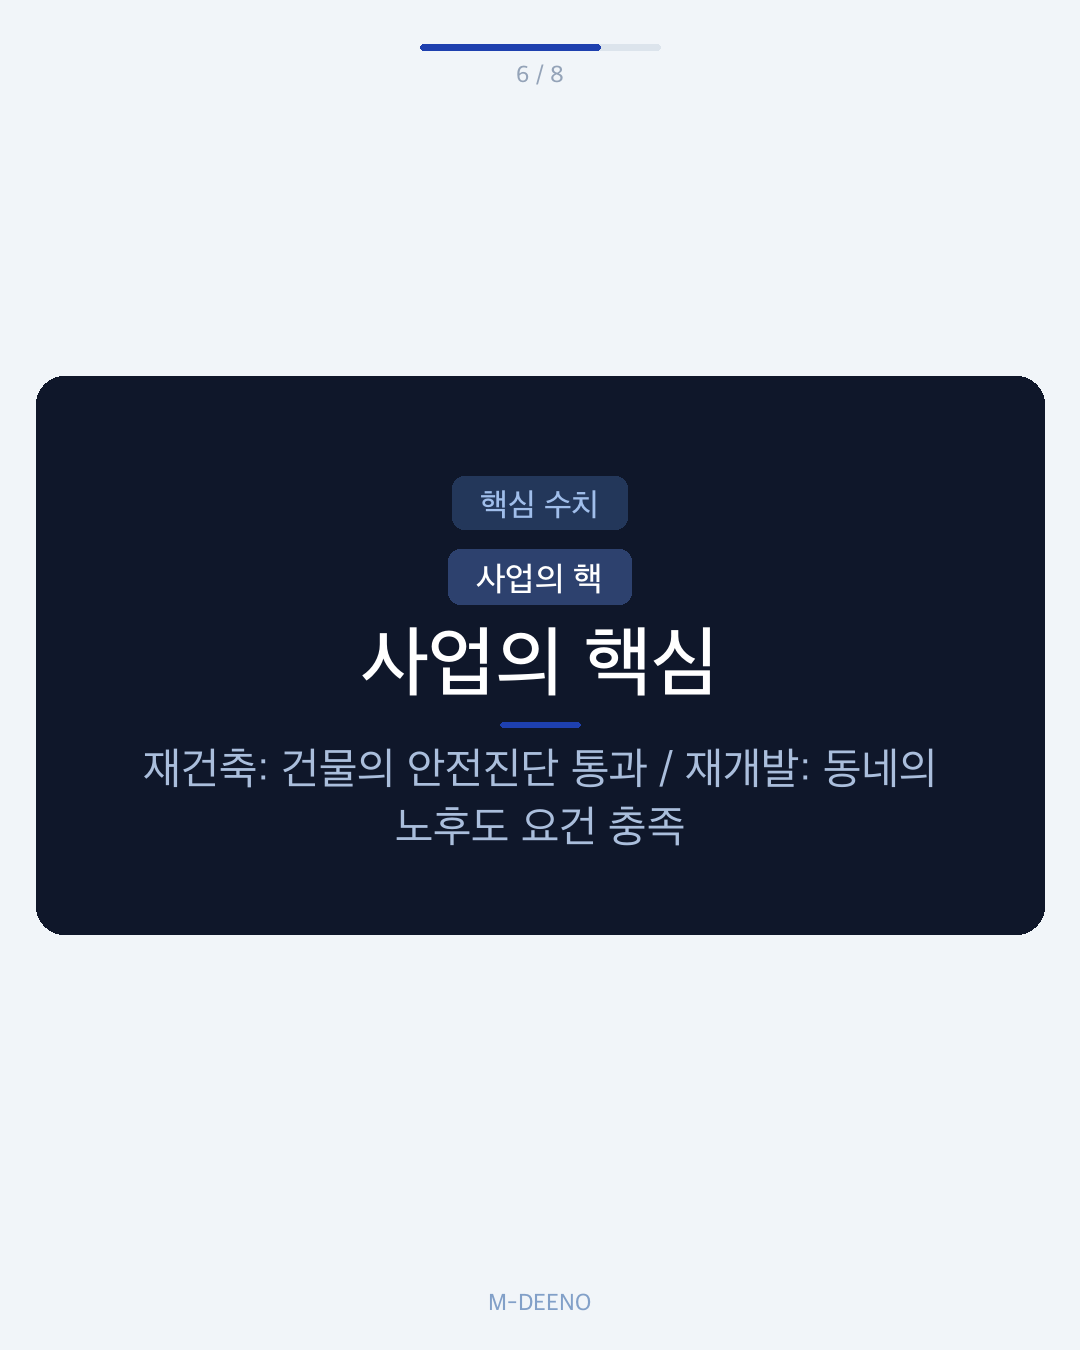
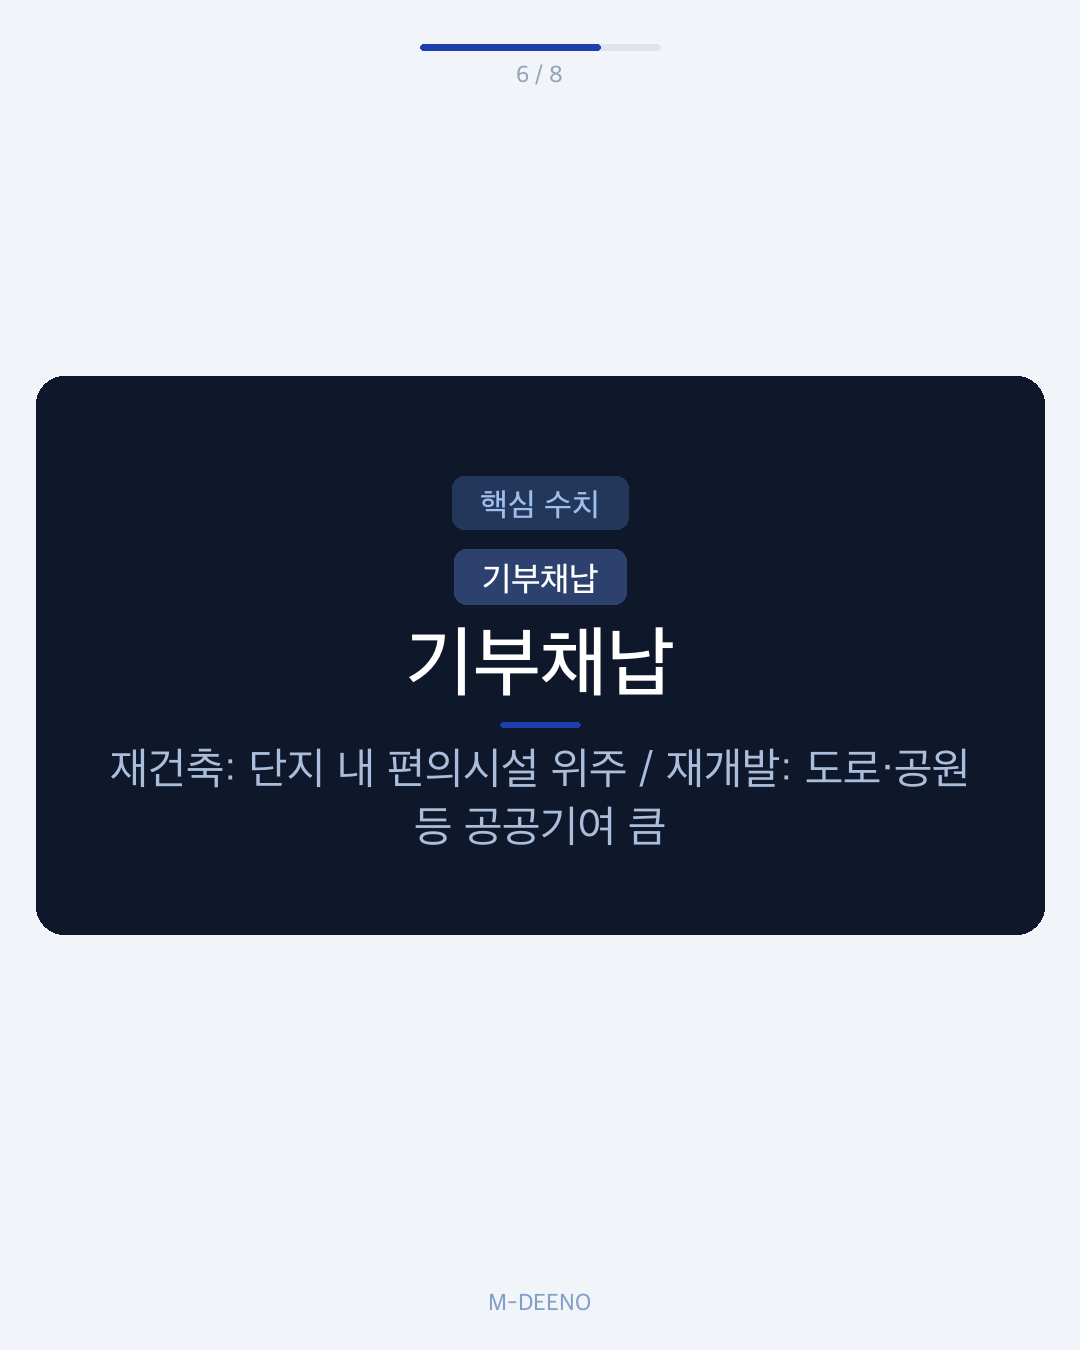
Auto Post: 2026-04-11-압구정-현대-5억-추가-분담금-2026년-기부채납이-결정할-내-집의-운명.md

Changed region(s): [[0.0917, 0.5289, 0.9167, 0.6222], [0.3361, 0.4667, 0.6722, 0.5289], [0.3972, 0.4044, 0.6111, 0.4356]]

diff --git a/content/posts/reconstruction/2026-04-11-압구정-현대-5억-추가-분담금-2026년-기부채납이-결정할-내-집의-운명.md b/content/posts/reconstruction/2026-04-11-압구정-현대-5억-추가-분담금-2026년-기부채납이-결정할-내-집의-운명.md
@@ -1,0 +1,167 @@
+---
+title: "압구정 현대 5억 추가 분담금? 2026년 기부채납이 결정할 내 집의 운명"
+date: 2026-04-11T23:31:37+09:00
+draft: false
+categories: ["재건축/재개발"]
+tags: ["2026년 압구정 재건축 기부채납과 분담금 변화", "부동산투자", "분담금예측", "프롭테크", "재테크"]
+description: "2026년 압구정 재건축 기부채납과 분담금 변화를 정밀 분석했습니다. 현대 1~7차부터 한양까지 구역별 공공기여 시설이 내 자산 가치에 미치는 영향을 M-DEENO 데이터로 확인하고 분담금 폭탄을 피하는 전략을 지금 무료로 분석해 보세요."
+image: "/images/chart-1775917943.png"
+---<!-- inline-links-inserted -->
+
+
+
+
+
+![2026년 압구정 재건축 기부채납과 분담금 변화 분석 차트 — M-DEENO 데이터 시뮬레이션](/images/chart-1775917943.png)
+*▲ 2026년 압구정 재건축 [기부채납](/posts/reconstruction/2026-04-05-여의도-시범-기부채납-조합원-분담금-2억-더-늘리는-구조/)과 분담금 변화 M-DEENO AI 분석 시뮬레이션 (2026-04-11 기준)*
+
+---
+
+<div class="lab-card">
+2026년 압구정 재건축 기부채납과 분담금 변화의 핵심은 공공기여 비율과 공사비 상승의 결합입니다. 기부채납 비율 1% 차이가 가구당 수억 원의 분담금 격차를 만들며, 특히 3구역의 덮개공원과 공공보행통로 등 대규모 기반시설 기여가 수익성의 최대 변수로 떠오르고 있습니다. M-DEENO 데이터 랩의 분석을 통해 구역별 예상 분담금 시나리오와 자산 가치 방어 전략을 제시합니다.
+</div>
+
+공사비가 평당 1,000만 원 시대를 열면서 압구정 재건축 단지에서도 가구당 분담금이 5억 원을 상회할 것이라는 관측이 현실화되고 있습니다. 평생 일궈온 내 집이 재건축 후에 오히려 감당하기 어려운 빚더미가 될 수 있다는 불안감은 압구정 주민들에게도 더 이상 남의 일이 아닙니다. 2026년 압구정 재건축 기부채납과 분담금 변화의 실체를 데이터로 분석하여 내 자산을 지킬 수 있는 명확한 판단 기준을 제시합니다.
+
+## 2026년 압구정, '기부채납'의 덫... 자칫하면 내 집 한 채 값 날아갑니다
+
+2026년 확정될 정비계획안의 핵심은 기부채납(공공 기여를 조건으로 용적률 등의 혜택을 받는 제도)의 규모와 종류입니다. 서울시 신속통합기획 가이드라인에 따르면 압구정 지구는 한강 변 공공성 확보를 위해 과거보다 높은 수준의 기부채납을 요구받고 있습니다. 기부채납 비율이 상승하면 조합원이 일반 분양으로 수익을 낼 수 있는 대지 면적이 줄어들어 결국 분담금 상승으로 직결됩니다.
+
+기부채납 비율 1%의 차이는 압구정 같은 고가 단지에서 가구당 수천만 원에서 억 단위의 자산 가치 변화를 야기합니다. 단순히 땅을 내놓는 것을 넘어 덮개공원이나 보행교 같은 고가의 시설물을 지어서 기부하는 '시설 기부채납'은 공사비 부담을 조합원에게 전가하는 구조입니다. 2026년 공사비 지수가 현재보다 10~15% 추가 상승할 경우, 시설 기부채납 비중이 높은 단지는 감당하기 어려운 수준의 분담금 폭탄을 맞을 수 있습니다.
+
+조합원들이 간과하는 또 다른 위험 요소는 입주 후 공공기여 시설의 유지보수 비용입니다. 공공보행통로나 대규모 공원이 단지 내에 조성될 경우, 이에 대한 관리 책임과 비용이 조합 측에 과도하게 설정될 가능성이 큽니다. 이는 장기적으로 단지의 관리비 상승과 커뮤니티 폐쇄성 저하로 이어져 매매 가격에 부정적인 영향을 줄 수 있습니다.
+
+| 구분 | 기부채납 유형 | 자산 가치 영향도 | 분담금 변동성 |
+| :--- | :--- | :--- | :--- |
+| 토지 기부 | 도로, 공원 부지 제공 | 중간 | 낮음 |
+| 시설 기부 | 보행교, 덮개공원, 문화시설 | 높음 | 매우 높음 |
+| 현금 기부 | 공공기여금 납부 | 낮음 | 중간 |
+
+위 표에서 보듯 시설 기부채납은 공사비 변동에 직접 노출되어 2026년 시점의 사업성을 극도로 불안정하게 만드는 요소입니다.
+[국토교통부 실거래가 공개시스템](https://rt.molit.go.kr/) 확인 권장
+
+
+<div class="blog-cta-box blog-cta-box--primary">
+  <p class="blog-cta-box__hook">⚠ 공사비 10% 오르면, 내 분담금은 최대 7배 뜁니다</p>
+  <p class="blog-cta-box__desc">
+    내 단지는 얼마나 위험한지, 30초면 무료로 확인할 수 있습니다.<br>회원가입도 필요 없습니다.
+  </p>
+  <a href="https://mdeeno.com/member?utm_source=blog&utm_medium=post_cta&utm_campaign=auto_post" target="_blank" rel="noopener noreferrer"
+     onclick="typeof gtag !== 'undefined' && gtag('event', 'blog_to_mvp_click', {page: window.location.pathname})"
+     class="blog-cta-box__btn">
+    내 단지 리스크 무료 진단받기 →
+  </a>
+</div>
+
+
+
+## 압구정 2·3·4구역 실전 비교: 공공기여 비중에 따른 분담금 격차 분석
+
+압구정 3구역(현대 1~7차, 10, 13, 14차)은 압구정 재건축의 상징이지만, 가장 복잡한 기부채납 과제를 안고 있습니다. 한강과 단지를 잇는 덮개공원과 공공보행통로 조성 비용은 고스란히 조합원의 분담금으로 산입됩니다. M-DEENO 분석 엔진에 따르면 3구역의 경우 공공기여 시설 조성비로 인해 타 구역 대비 가구당 약 1.2억~1.8억 원의 추가 비용 발생 가능성이 감지되었습니다.
+
+반면 2구역(현대 9, 11, 12차)과 4구역(현대 8차, 한양 3, 4, 6차)은 상대적으로 시설 기부채납의 규모가 3구역보다 작아 사업성 측면에서 유리한 고지를 점할 수 있습니다. 2구역은 수변 특화 설계에 집중하고 있으며, 4구역은 공공청사 위주의 기부채납을 논의 중입니다. 이러한 시설 종류의 차이는 관리처분(이주·철거 직전 단계로 분담금 확정 시점) 단계에서 비례율(사업 수익성 지수. 100% 이하면 추가 분담금 발생)의 차이로 나타나게 됩니다.
+
+인근 반포와 잠실의 사례를 보면 기부채납 시설이 과도하게 개방된 단지들은 입주 초기 시세 상승 폭이 제한적인 경향을 보였습니다. 단지 내 사생활 보호가 어려워지고 외부인 유입으로 인한 시설 노후화가 빨라지기 때문입니다. 압구정 역시 2026년 정비계획안 확정 시 공공기여의 '질적 수준'을 어떻게 협상하느냐에 따라 30~40대 투자자들의 선택이 갈릴 것입니다.
+
+| 구역 | 주요 기부채납 계획 | 예상 순부담률 | 추정 분담금(전용 84㎡ 기준) |
+| :--- | :--- | :--- | :--- |
+| 압구정 2구역 | 수변 특화 공간, 문화시설 | 11~13% | 4.5~6억대 |
+| 압구정 3구역 | 한강 덮개공원, 보행교 | 15~18% | 6~8억대 |
+| 압구정 4구역 | 공공청사, 공원 부지 | 10~12% | 3.5~5억대 |
+
+현재 압구정 시세는 구역별로 40~60억대 범위를 형성하고 있으나, 분담금 확정 시점에 따라 권리가액(비례율을 적용한 내 실질 지분 가치)이 출렁일 수 있습니다.
+[국토교통부 실거래가 공개시스템](https://rt.molit.go.kr/) 확인 권장
+
+## 왜 우리 단지만 더 낼까? 기부채납 비율과 용적률의 숨겨진 함수
+
+용적률(대지 면적 대비 건물 총 연면적 비율)을 높여 고층을 짓는 대가는 결코 공짜가 아닙니다. 서울시는 용적률 인센티브를 주는 대신 그만큼의 가치를 공공주택(임대주택)이나 기반시설로 환수합니다. 조합원들이 흔히 하는 실수가 '용적률이 높으니 무조건 이득'이라고 생각하는 것이지만, 실제로는 순부담률(전체 대지 중 기부채납 후 조합원에게 남는 실질 토지 비율)이 낮아지면 사업성은 악화됩니다.
+
+<div class="lab-formula-box">
+실질 사업성 지수 = (일반분양 수입 - 총사업비) / (종전자산 총액 × 기부채납 보정 계수)
+*기부채납 시설의 공사비가 상승할수록 분모의 보정 계수가 낮아져 비례율이 하락함
+</div>
+
+2026년 예상 공사비 상승분은 현재의 예측치를 상회할 가능성이 높습니다. 원자재 가격 상승과 인건비 급등은 기부채납 시설의 건립 비용을 높여 조합원의 추가분담금(조합원 분양가에서 권리가액을 뺀 금액)을 기하급수적으로 늘립니다. 특히 압구정처럼 하이엔드 브랜드를 지향하는 경우 마감재 비용까지 더해져 '기부채납의 저주'가 현실화될 수 있습니다.
+
+서울시 정책 변화에 따른 불확실성도 큰 리스크입니다. 2026년 선거 주기와 맞물려 공공기여 인정 범위나 기부채납 시설의 운영 주체에 대한 기준이 변할 수 있습니다. 지금의 장밋빛 청사진만 믿고 투자를 결정하거나 분담금 계획을 세우는 것은 위험하며, 철저하게 보수적인 시나리오를 바탕으로 자금 계획을 수립해야 합니다.
+
+## M-DEENO가 분석한 2026년 압구정 재건축 시뮬레이션 결과
+
+M-DEENO 분석 엔진에 따르면, 압구정 3구역의 경우 현재의 기부채납 안을 고수할 시 비례율이 85~90% 수준까지 하락할 위험이 있는 것으로 나타났습니다. 이는 종전자산(재건축 전 내 아파트의 감정평가 금액)이 40억인 조합원의 경우, 권리가액이 34~36억으로 평가되어 분담금이 예상보다 4~6억 원 더 늘어날 수 있음을 의미합니다. 데이터 랩은 이러한 리스크를 줄이기 위해 시설 기부채납을 토지 기부채납으로 전환하거나 공공주택 비중을 조정하는 전략적 대안을 제시합니다.
+
+불필요한 공공기여 시설을 줄이고 조합원 전용 커뮤니티의 가치를 극대화하는 설계 변경이 이루어질 경우, 분담금을 최대 20%까지 절감할 수 있다는 분석 결과가 도출되었습니다. 이는 단순한 비용 절감을 넘어 입주 후 단지의 프리미엄을 유지하는 핵심 전략입니다. M-DEENO 데이터 랩은 압구정 각 구역의 특성에 맞춘 최적의 기부채납 조합과 용적률 배분 시나리오를 보유하고 있습니다.
+
+데이터로 증명된 분담금 절감 포인트는 결국 '협상력'에서 나옵니다. 서울시와의 협의 과정에서 우리 단지가 제공하는 공공기여의 가치를 어떻게 데이터로 입증하느냐가 내 재산을 지키는 유일한 길입니다. M-DEENO의 알고리즘은 현재 압구정 재건축 조합들이 직면한 수치적 오류를 바로잡고 가장 현실적인 수익 구조를 제안합니다.
+
+
+<div class="kakao-channel-inline">
+  <p class="kakao-channel-inline__text">💬 <strong>카카오톡으로 재건축 뉴스 받기</strong> — 매주 핵심 분석을 보내드립니다</p>
+  <a href="https://pf.kakao.com/_xmHdlX" target="_blank" rel="noopener noreferrer"
+     onclick="typeof gtag !== 'undefined' && gtag('event', 'kakao_channel_inline', {event_category: 'CTA', event_label: window.location.pathname})"
+     class="kakao-channel-inline__btn">채널 추가 →</a>
+</div>
+
+## 지금 바로 우리 집 '분담금 위험도' 무료 진단하기
+
+내 아파트가 분담금 폭탄의 대상인지, 아니면 수익성 높은 황금 알이 될지는 지금 어떤 데이터를 보느냐에 달려 있습니다. mdeeno.com에 접속하시면 압구정 각 구역 및 단지별 맞춤형 정밀 분석 리포트를 즉시 확인하실 수 있습니다. 2026년 변하는 정책과 공사비 지수를 반영한 국내 유일의 시뮬레이션 결과를 놓치지 마십시오.
+
+현재 mdeeno.com에서는 선착순 50명에게 '압구정 재건축 분담금 대응 전략서' PDF를 무료로 증정하고 있습니다. 전문가 상담을 통해 우리 단지의 기부채납 협상 전략과 분담금 최소화 방안을 직접 확인해 보시기 바랍니다. 막연한 공포에서 벗어나 정확한 데이터로 내 소중한 자산을 지키는 첫걸음을 지금 시작하십시오.
+
+2026년 압구정 재건축은 기부채납 시설 조성비로 인해 가구당 최대 8억 원의 분담금이 발생할 수 있는 고위험 구간에 진입했습니다. M-DEENO 분석 엔진으로 내 단지의 분담금 위험도와 비례율 변화를 실시간으로 확인하여 자산 손실을 방지할 수 있습니다. 지금 바로 mdeeno.com에서 내 단지를 조회하고 상세 리포트를 받아보세요.
+
+### Q1. 기부채납 시설이 많으면 무조건 손해인가요?
+
+단기적으로는 공사비와 부지 제공으로 인해 분담금이 상승하므로 수익성에 불리합니다. 하지만 랜드마크급 시설이 들어서 단지의 인지도가 높아지고 주거 환경이 개선되면 입주 후 매매 가격 상승으로 보상받을 수도 있습니다. 다만, 그 비용이 조합원의 감당 범위를 넘어서는지 M-DEENO 분석 엔진으로 미리 계산해 보는 것이 필수적입니다.
+
+### Q2. 분담금 리스크를 미리 확인할 수 있나요?
+
+네, 정비계획안에 명시된 기부채납 비율과 예상 용적률, 그리고 최근 공사비 지수를 결합하면 상당 부분 예측이 가능합니다. M-DEENO에서는 과거 유사 사례 데이터와 현재의 시장 지표를 결합하여 관리처분 전이라도 90% 이상의 신뢰도로 예상 분담금 범위를 산출해 드립니다. 이를 통해 이주비 대출이나 추가 자금 마련 계획을 선제적으로 세울 수 있습니다.
+
+### Q3. 2026년에 분담금이 더 오를 가능성이 있나요?
+
+금리 인상 기조와 건설 원자재 수급 불안이 지속된다면 공사비는 추가로 상승할 가능성이 높습니다. 또한 서울시의 기부채납 기준이 강화되거나 공공주택 매입 가격이 현실화되지 않을 경우 조합원의 부담은 더 커질 수 있습니다. 따라서 현재의 추정치에 최소 10~15%의 여유 자금을 고려한 보수적인 자금 운용이 필요합니다.
+
+
+
+
+{{< ad_cpa type="finance" >}}
+
+
+
+
+<div class="blog-cta-box blog-cta-box--secondary">
+  <p class="blog-cta-box__hook">⚠ 공사비 10% 오르면, 내 분담금은 최대 7배 뜁니다</p>
+  <p class="blog-cta-box__desc">
+    내 단지는 얼마나 위험한지, 30초면 무료로 확인할 수 있습니다.<br>회원가입도 필요 없습니다.
+  </p>
+  <a href="https://mdeeno.com/member?utm_source=blog&utm_medium=post_cta&utm_campaign=auto_post" target="_blank" rel="noopener noreferrer"
+     class="blog-cta-box__btn">
+    지금 바로 무료 분석 시작 →
+  </a>
+</div>
+
+
+---
+> **※ 본 리포트는 M-DEENO 분석 엔진을 활용한 시뮬레이션 분석입니다.**
+
+
+
+---
+
+
+<div class="blog-calc-box">
+    <p class="blog-calc__label">🧮 직접 계산해보기</p>
+    <a href="https://tech.mdeeno.com/calculators/calc_dsr/" target="_blank" class="blog-calc__btn">
+        <strong>📉 DSR & 대출 한도 계산기 바로가기</strong>
+    </a>
+</div>
+
+📉 **이주비 대출 한도 미리 확인**
+👉 <a href="https://tech.mdeeno.com/calculators/calc_dsr/" target="_blank"><strong>💰 DSR 기준 대출 한도 계산기</strong></a>
+
+<br><hr><small>📢 **면책 조항**<br>해당 리포트는 가상 시나리오를 바탕으로 작성되었습니다. 투자 시 유의하세요. 투자의 책임은 본인에게 있습니다.</small>
+## 함께 읽으면 좋은 글
+
+- [여의도 시범 기부채납, 조합원 분담금 2억 더 늘리는 구조](/posts/reconstruction/2026-04-05-여의도-시범-기부채납-조합원-분담금-2억-더-늘리는-구조/)
+- [같은 일산인데 분담금 1.5억 차이, 내 단지는?](/posts/reconstruction/2026-04-09-같은-일산인데-분담금-15억-차이-내-단지는/)
+- [용적률 320% 받았는데 분담금 1억? 중동 조합원의 착각](/posts/reconstruction/2026-03-31-용적률-320-받았는데-분담금-1억-중동-조합원의-착각/)
